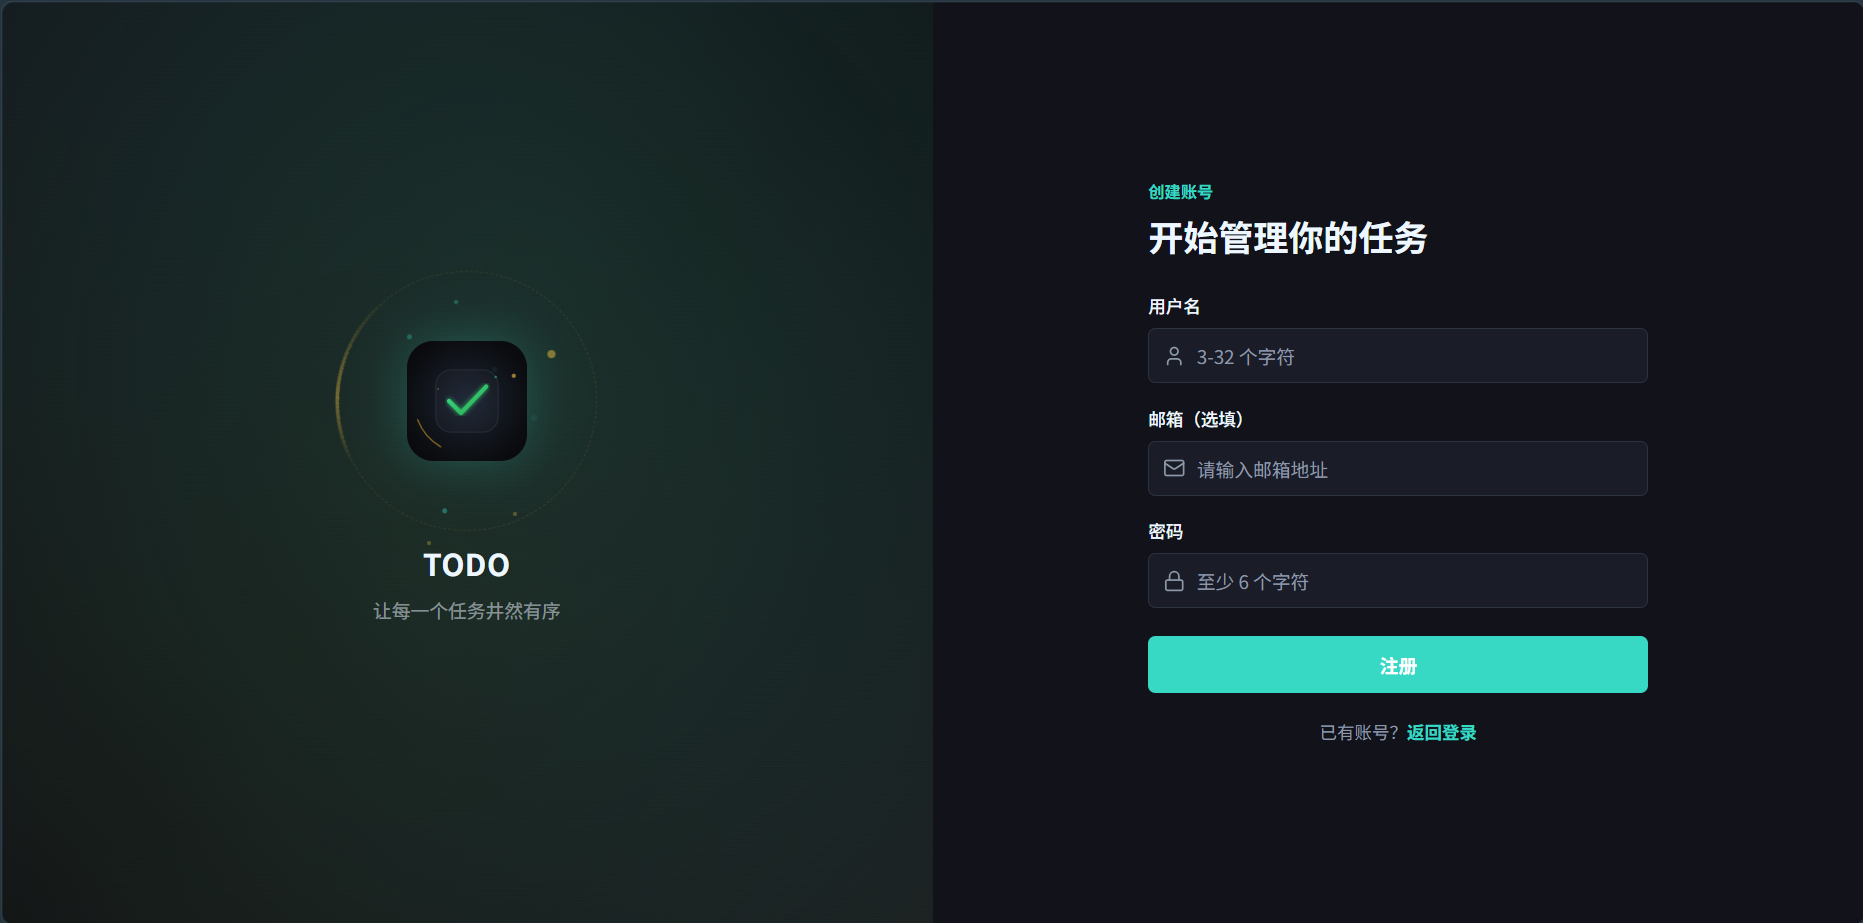
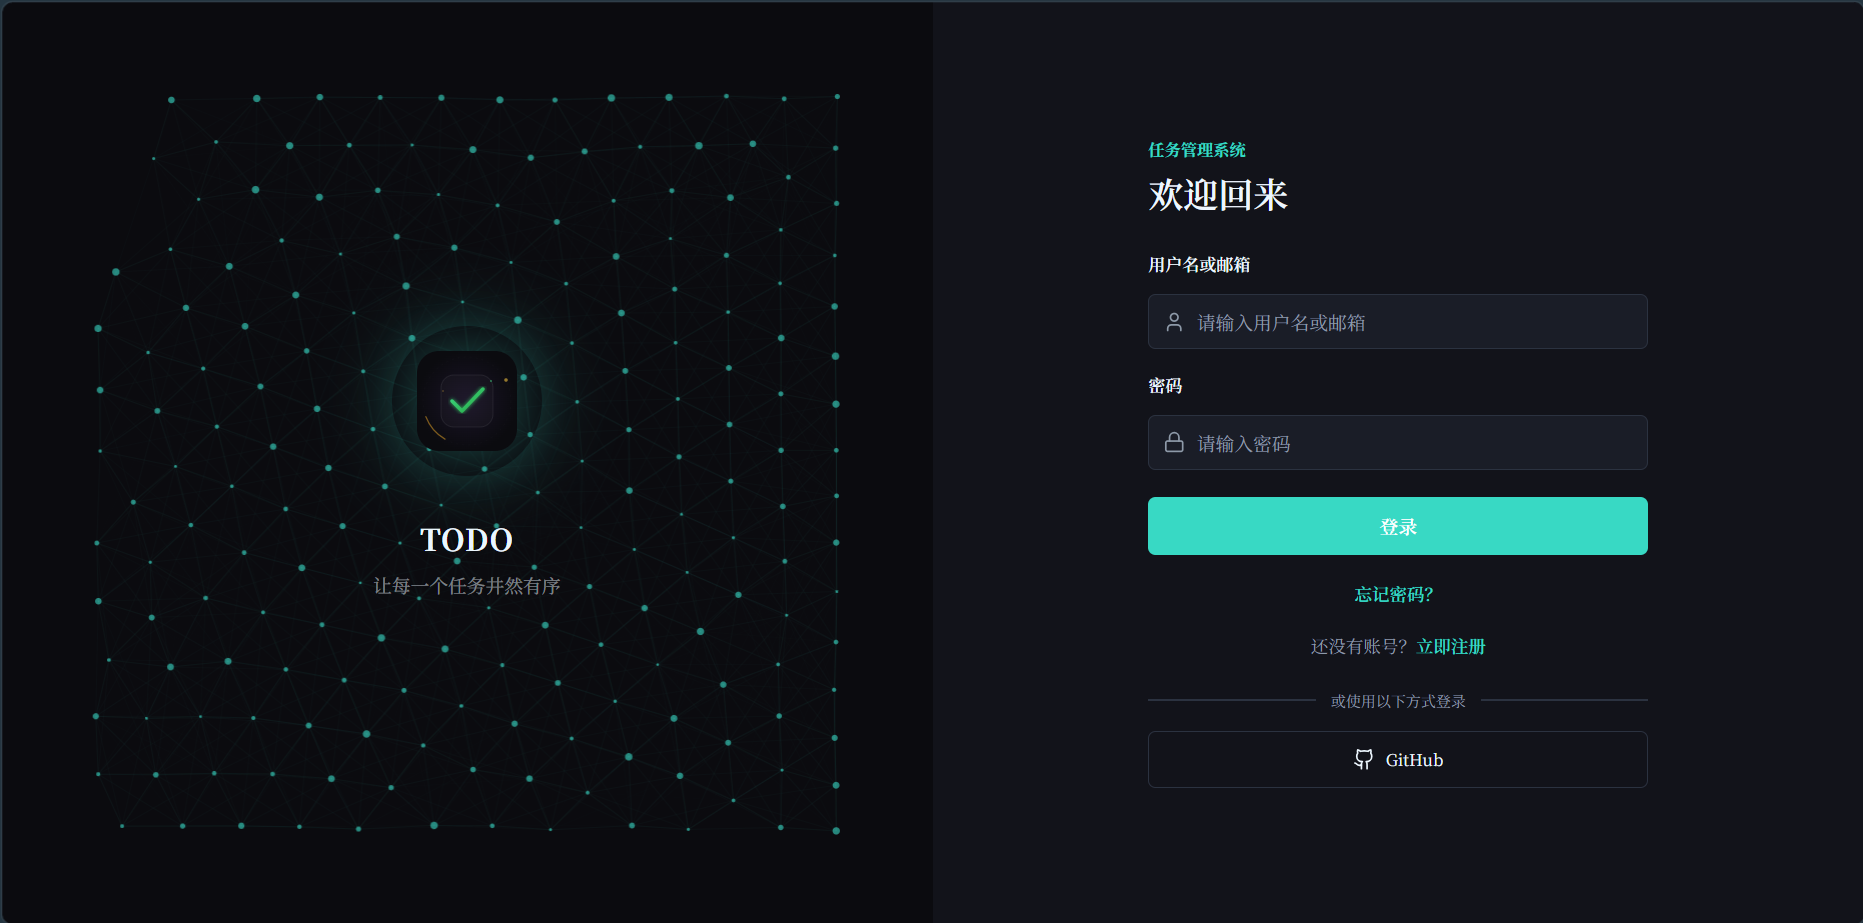
feat(auth): 改进 OAuth 重定向 URL 处理和状态验证
- 添加 getBaseRedirectUri 工具函数，确保反向代理场景下路径前缀不丢失
- 在前端登录页面和 OAuth 账户管理中使用统一的重定向 URI 生成方法
- 改进 OAuth handler 中的状态验证机制，支持跨域 cookie 丢失场景
- 完整 state 信息同时保存在 cookie 和 OAuth state 参数中，提高可靠性
- 添加错误日志记录，便于调试 OAuth 回调失败问题

fix(auth): 修复 OAuth 回调状态验证逻辑

- 修正 state 参数验证方式，防止 CSRF 攻击
- 统一错误处理流程，使用 redirectWithError 函数处理各类错误情况
- 改进超时处理，使用独立 context 不依赖 request context
- 增强 OAuth 回调和账户绑定的错误处理机制

docs(readme): 添加在线演示链接和体验说明

diff --git a/frontend/src/shared/utils/url.ts b/frontend/src/shared/utils/url.ts
@@ -1,0 +1,12 @@
+/**
+ * 获取当前页面的基础重定向 URI（含路径前缀）。
+ * 用于 OAuth 回调，确保反向代理场景下路径前缀不丢失。
+ *
+ * 例：页面在 https://example.com/todo/login → 返回 https://example.com/todo/
+ */
+export function getBaseRedirectUri(): string {
+  const { origin, pathname } = window.location
+  // 取到目录级别（去掉文件名部分），保留路径前缀
+  const base = pathname.endsWith('/') ? pathname : pathname.substring(0, pathname.lastIndexOf('/') + 1)
+  return origin + base
+}

diff --git a/frontend/src/features/user/OAuthAccountsManager.vue b/frontend/src/features/user/OAuthAccountsManager.vue
@@ -6,6 +6,7 @@ import type { OAuthProvider } from '@/entities/auth/model'
 import { unlinkOAuthAccount } from '@/entities/user/api'
 import { api } from '@/shared/api/client'
 import type { ApiResponse } from '@/shared/api/types'
+import { getBaseRedirectUri } from '@/shared/utils/url'
 
 const props = defineProps<{
   accounts: OAuthAccount[]
@@ -52,7 +53,7 @@ async function handleUnlink(account: OAuthAccount) {
 
 async function handleLink(provider: string) {
   try {
-    const redirectUri = encodeURIComponent(window.location.origin)
+    const redirectUri = encodeURIComponent(getBaseRedirectUri())
     const res = await api.get<ApiResponse<{ auth_url: string }>>(`/user/oauth/${provider}/link?redirect_uri=${redirectUri}`)
     if (res.data?.auth_url) {
       window.location.href = res.data.auth_url

diff --git a/frontend/src/pages/LoginPage.vue b/frontend/src/pages/LoginPage.vue
@@ -7,6 +7,7 @@ import { useAuthStore } from '@/app/stores/auth.store'
 import { useFormState } from '@/shared/composables/useFormState'
 import AuthBrandPanel from '@/shared/ui/AuthBrandPanel.vue'
 import { API_BASE_URL } from '@/shared/config/api'
+import { getBaseRedirectUri } from '@/shared/utils/url'
 import type { OAuthProvider } from '@/entities/auth/model'
 
 const router = useRouter()
@@ -52,7 +53,7 @@ onMounted(async () => {
 })
 
 function handleOAuthLogin(provider: string) {
-  window.location.href = `${API_BASE_URL}/auth/oauth/${provider}?redirect_uri=${encodeURIComponent(window.location.origin)}`
+  window.location.href = `${API_BASE_URL}/auth/oauth/${provider}?redirect_uri=${encodeURIComponent(getBaseRedirectUri())}`
 }
 
 const { form: payload, submitting: isLoading, error, handleSubmit } = useFormState({

diff --git a/frontend/src/pages/admin/AdminLoginPage.vue b/frontend/src/pages/admin/AdminLoginPage.vue
@@ -9,6 +9,7 @@ import type { ApiResponse } from '@/shared/api/types'
 import type { OAuthProvider } from '@/entities/auth/model'
 import AuthBrandPanel from '@/shared/ui/AuthBrandPanel.vue'
 import { ADMIN_API_BASE_URL } from '@/shared/config/api'
+import { getBaseRedirectUri } from '@/shared/utils/url'
 
 const router = useRouter()
 const route = useRoute()
@@ -44,7 +45,7 @@ onMounted(async () => {
 })
 
 function handleOAuthLogin(provider: string) {
-  window.location.href = `${ADMIN_API_BASE_URL}/auth/oauth/${provider}?redirect_uri=${encodeURIComponent(window.location.origin)}`
+  window.location.href = `${ADMIN_API_BASE_URL}/auth/oauth/${provider}?redirect_uri=${encodeURIComponent(getBaseRedirectUri())}`
 }
 
 const { form, submitting: isLoading, error, handleSubmit } = useFormState({

diff --git a/internal/handlers/oauth_handler.go b/internal/handlers/oauth_handler.go
@@ -15,8 +15,10 @@ import (
 	"time"
 
 	"github.com/gin-gonic/gin"
+	"go.uber.org/zap"
 
 	"todo/internal/config"
+	"todo/internal/logging"
 	"todo/internal/middleware"
 	"todo/internal/oauth"
 	"todo/internal/service"
@@ -148,11 +150,12 @@ func (h *OAuthHandler) initiate(c *gin.Context, scope, redirectURI string, retur
 		return
 	}
 
-	authURL := oauth2Cfg.AuthCodeURL(sig)
+	// 完整 state 同时放入 cookie 和 OAuth state 参数（防跨域 cookie 丢失）
+	fullState := payload + "|" + sig
 	if returnURL {
-		utils.RespondSuccess(c, gin.H{"auth_url": authURL})
+		utils.RespondSuccess(c, gin.H{"auth_url": oauth2Cfg.AuthCodeURL(fullState)})
 	} else {
-		c.Redirect(http.StatusTemporaryRedirect, authURL)
+		c.Redirect(http.StatusTemporaryRedirect, oauth2Cfg.AuthCodeURL(fullState))
 	}
 }
 
@@ -163,24 +166,28 @@ func (h *OAuthHandler) callback(c *gin.Context) {
 	errorParam := c.Query("error")
 
 	if errorParam != "" {
-		h.redirectWithError(c, h.cfg.OAuth.FrontendURL, "user", errorParam)
+		h.redirectWithError(c, "", "user", errorParam)
 		return
 	}
 	if code == "" {
-		h.redirectWithError(c, h.cfg.OAuth.FrontendURL, "user", "missing_code")
+		h.redirectWithError(c, "", "user", "missing_code")
 		return
 	}
 
-	// 读取并清除 state cookie
-	cookieVal, err := c.Cookie(oauthStateCookie)
-	if err != nil || cookieVal == "" {
-		h.redirectWithError(c, h.cfg.OAuth.FrontendURL, "user", "invalid_state")
+	// 读取 state：优先 cookie，fallback 到 OAuth state query parameter（跨域兼容）
+	cookieVal, cookieErr := c.Cookie(oauthStateCookie)
+	if cookieErr != nil || cookieVal == "" {
+		// cookie 丢失（跨域），从 state query parameter 解析完整 state
+		cookieVal = stateParam
+	}
+	if cookieVal == "" {
+		h.redirectWithError(c, "", "user", "invalid_state")
 		return
 	}
 	// 先读取 scope 以确定清除路径
 	firstPipe := strings.Index(cookieVal, "|")
 	if firstPipe < 0 {
-		h.redirectWithError(c, h.cfg.OAuth.FrontendURL, "user", "invalid_state")
+		h.redirectWithError(c, "", "user", "invalid_state")
 		return
 	}
 	cookieScope := cookieVal[:firstPipe]
@@ -200,7 +207,7 @@ func (h *OAuthHandler) callback(c *gin.Context) {
 	// 解析 cookie: scope|provider|timestamp|nonce|redirect_uri_b64|signature
 	parts := strings.SplitN(cookieVal, "|", 6)
 	if len(parts) != 6 {
-		h.redirectWithError(c, h.cfg.OAuth.FrontendURL, "user", "invalid_state")
+		h.redirectWithError(c, "", "user", "invalid_state")
 		return
 	}
 	cookieProvider, tsStr, _, redirectB64, cookieSig := parts[1], parts[2], parts[3], parts[4], parts[5]
@@ -208,7 +215,7 @@ func (h *OAuthHandler) callback(c *gin.Context) {
 	// 解码 redirect_uri
 	redirectBytes, err := base64.RawURLEncoding.DecodeString(redirectB64)
 	if err != nil {
-		h.redirectWithError(c, h.cfg.OAuth.FrontendURL, "user", "invalid_state")
+		h.redirectWithError(c, "", "user", "invalid_state")
 		return
 	}
 	redirectURI := string(redirectBytes)
@@ -230,8 +237,8 @@ func (h *OAuthHandler) callback(c *gin.Context) {
 		h.redirectWithError(c, redirectURI, "user", "state_expired")
 		return
 	}
-	// 验证 state 参数匹配
-	if stateParam != cookieSig {
+	// 验证 state 参数与 cookie 一致（防止 CSRF）
+	if stateParam != cookieVal {
 		h.redirectWithError(c, redirectURI, "user", "state_mismatch")
 		return
 	}
@@ -239,6 +246,10 @@ func (h *OAuthHandler) callback(c *gin.Context) {
 	// 调用 service
 	_, apiKey, err := h.oauthSvc.HandleCallback(c.Request.Context(), providerName, code)
 	if err != nil {
+		logging.LoggerFromContext(c).Error("oauth callback failed",
+			zap.String("provider", providerName),
+			zap.Error(err),
+		)
 		h.redirectWithError(c, redirectURI, "user", "callback_failed")
 		return
 	}
@@ -249,19 +260,17 @@ func (h *OAuthHandler) callback(c *gin.Context) {
 
 // handleLinkCallback 处理 OAuth 绑定回调（scope=link）。
 func (h *OAuthHandler) handleLinkCallback(c *gin.Context, providerName, code, stateParam, cookieVal string) {
-	frontendBase := h.cfg.OAuth.FrontendURL
-
 	// 解析: link|provider|timestamp|nonce|redirect_uri_b64|userID|signature
 	parts := strings.SplitN(cookieVal, "|", 8)
 	if len(parts) != 7 {
-		c.Redirect(http.StatusTemporaryRedirect, fmt.Sprintf("%s#/profile?oauth_link_error=invalid_state", frontendBase))
+		h.redirectWithError(c, "", "user", "invalid_state")
 		return
 	}
 	cookieProvider, tsStr, _, redirectB64, userIDStr, cookieSig := parts[1], parts[2], parts[3], parts[4], parts[5], parts[6]
 
 	redirectBytes, err := base64.RawURLEncoding.DecodeString(redirectB64)
 	if err != nil {
-		c.Redirect(http.StatusTemporaryRedirect, fmt.Sprintf("%s#/profile?oauth_link_error=invalid_state", frontendBase))
+		h.redirectWithError(c, "", "user", "invalid_state")
 		return
 	}
 	redirectURI := string(redirectBytes)
@@ -282,7 +291,7 @@ func (h *OAuthHandler) handleLinkCallback(c *gin.Context, providerName, code, st
 		c.Redirect(http.StatusTemporaryRedirect, fmt.Sprintf("%s#/profile?oauth_link_error=state_expired", redirectURI))
 		return
 	}
-	if stateParam != cookieSig {
+	if stateParam != cookieVal {
 		c.Redirect(http.StatusTemporaryRedirect, fmt.Sprintf("%s#/profile?oauth_link_error=state_mismatch", redirectURI))
 		return
 	}
@@ -296,6 +305,11 @@ func (h *OAuthHandler) handleLinkCallback(c *gin.Context, providerName, code, st
 
 	// 执行绑定
 	if err := h.oauthSvc.LinkAccount(c.Request.Context(), userID, providerName, code); err != nil {
+		logging.LoggerFromContext(c).Error("oauth link failed",
+			zap.Int64("user_id", userID),
+			zap.String("provider", providerName),
+			zap.Error(err),
+		)
 		errMsg := "link_failed"
 		switch {
 		case errors.Is(err, service.ErrOAuthAlreadyLinked):
@@ -317,7 +331,11 @@ func (h *OAuthHandler) adminRedirectBase() string {
 	return h.cfg.OAuth.FrontendURL
 }
 
-func (h *OAuthHandler) redirectWithError(c *gin.Context, base, scope, errMsg string) {
+func (h *OAuthHandler) redirectWithError(c *gin.Context, overrideBase, scope, errMsg string) {
+	base := h.cfg.OAuth.FrontendURL
+	if overrideBase != "" {
+		base = overrideBase
+	}
 	loginPath := "/login"
 	if scope == "admin" {
 		loginPath = "/admin/login"

diff --git a/internal/service/oauth_service.go b/internal/service/oauth_service.go
@@ -44,8 +44,8 @@ func (s *OAuthService) GetAvailableProviders() []oauth.ProviderDisplayInfo {
 
 // HandleCallback 处理 OAuth 回调：换取 token → 获取用户信息 → 创建/关联用户 → 生成 API Key。
 func (s *OAuthService) HandleCallback(ctx context.Context, providerName string, code string) (*models.UserResponse, string, error) {
-	// 整个 OAuth 流程 10 秒超时
-	ctx, cancel := context.WithTimeout(ctx, 10*time.Second)
+	// 独立超时，不依赖 request context（反向代理可能提前取消）
+	ctx, cancel := context.WithTimeout(context.Background(), 10*time.Second)
 	defer cancel()
 
 	provider, ok := s.oauthReg.Get(providerName)
@@ -195,7 +195,7 @@ func (s *OAuthService) ListUserAccounts(ctx context.Context, userID int64) ([]mo
 
 // LinkAccount 将 OAuth 账号绑定到已认证用户。
 func (s *OAuthService) LinkAccount(ctx context.Context, userID int64, providerName, code string) error {
-	ctx, cancel := context.WithTimeout(ctx, 10*time.Second)
+	ctx, cancel := context.WithTimeout(context.Background(), 10*time.Second)
 	defer cancel()
 
 	provider, ok := s.oauthReg.Get(providerName)

diff --git a/README.md b/README.md
@@ -4,6 +4,9 @@
 [![Platform](https://img.shields.io/badge/platform-Windows%20%7C%20macOS%20%7C%20Linux-lightgrey.svg)](https://github.com/ahsaboy/todo/releases)
 [![Built with Go](https://img.shields.io/badge/built%20with-Go-orange.svg)](https://go.dev/)
 [![Downloads](https://img.shields.io/github/downloads/ahsaboy/todo/total)](https://github.com/ahsaboy/todo/releases/latest)
+[![Demo](https://img.shields.io/badge/demo-online-brightgreen)](https://geohot.qzz.io)
+
+> 在线体验：[TODO 任务管理系统](https://geohot.qzz.io)
 
 一个轻量级的多用户 TODO 任务管理服务，基于 Go + Gin + SQLite，支持用户注册/登录、个人 API Key、多渠道提醒推送。
 